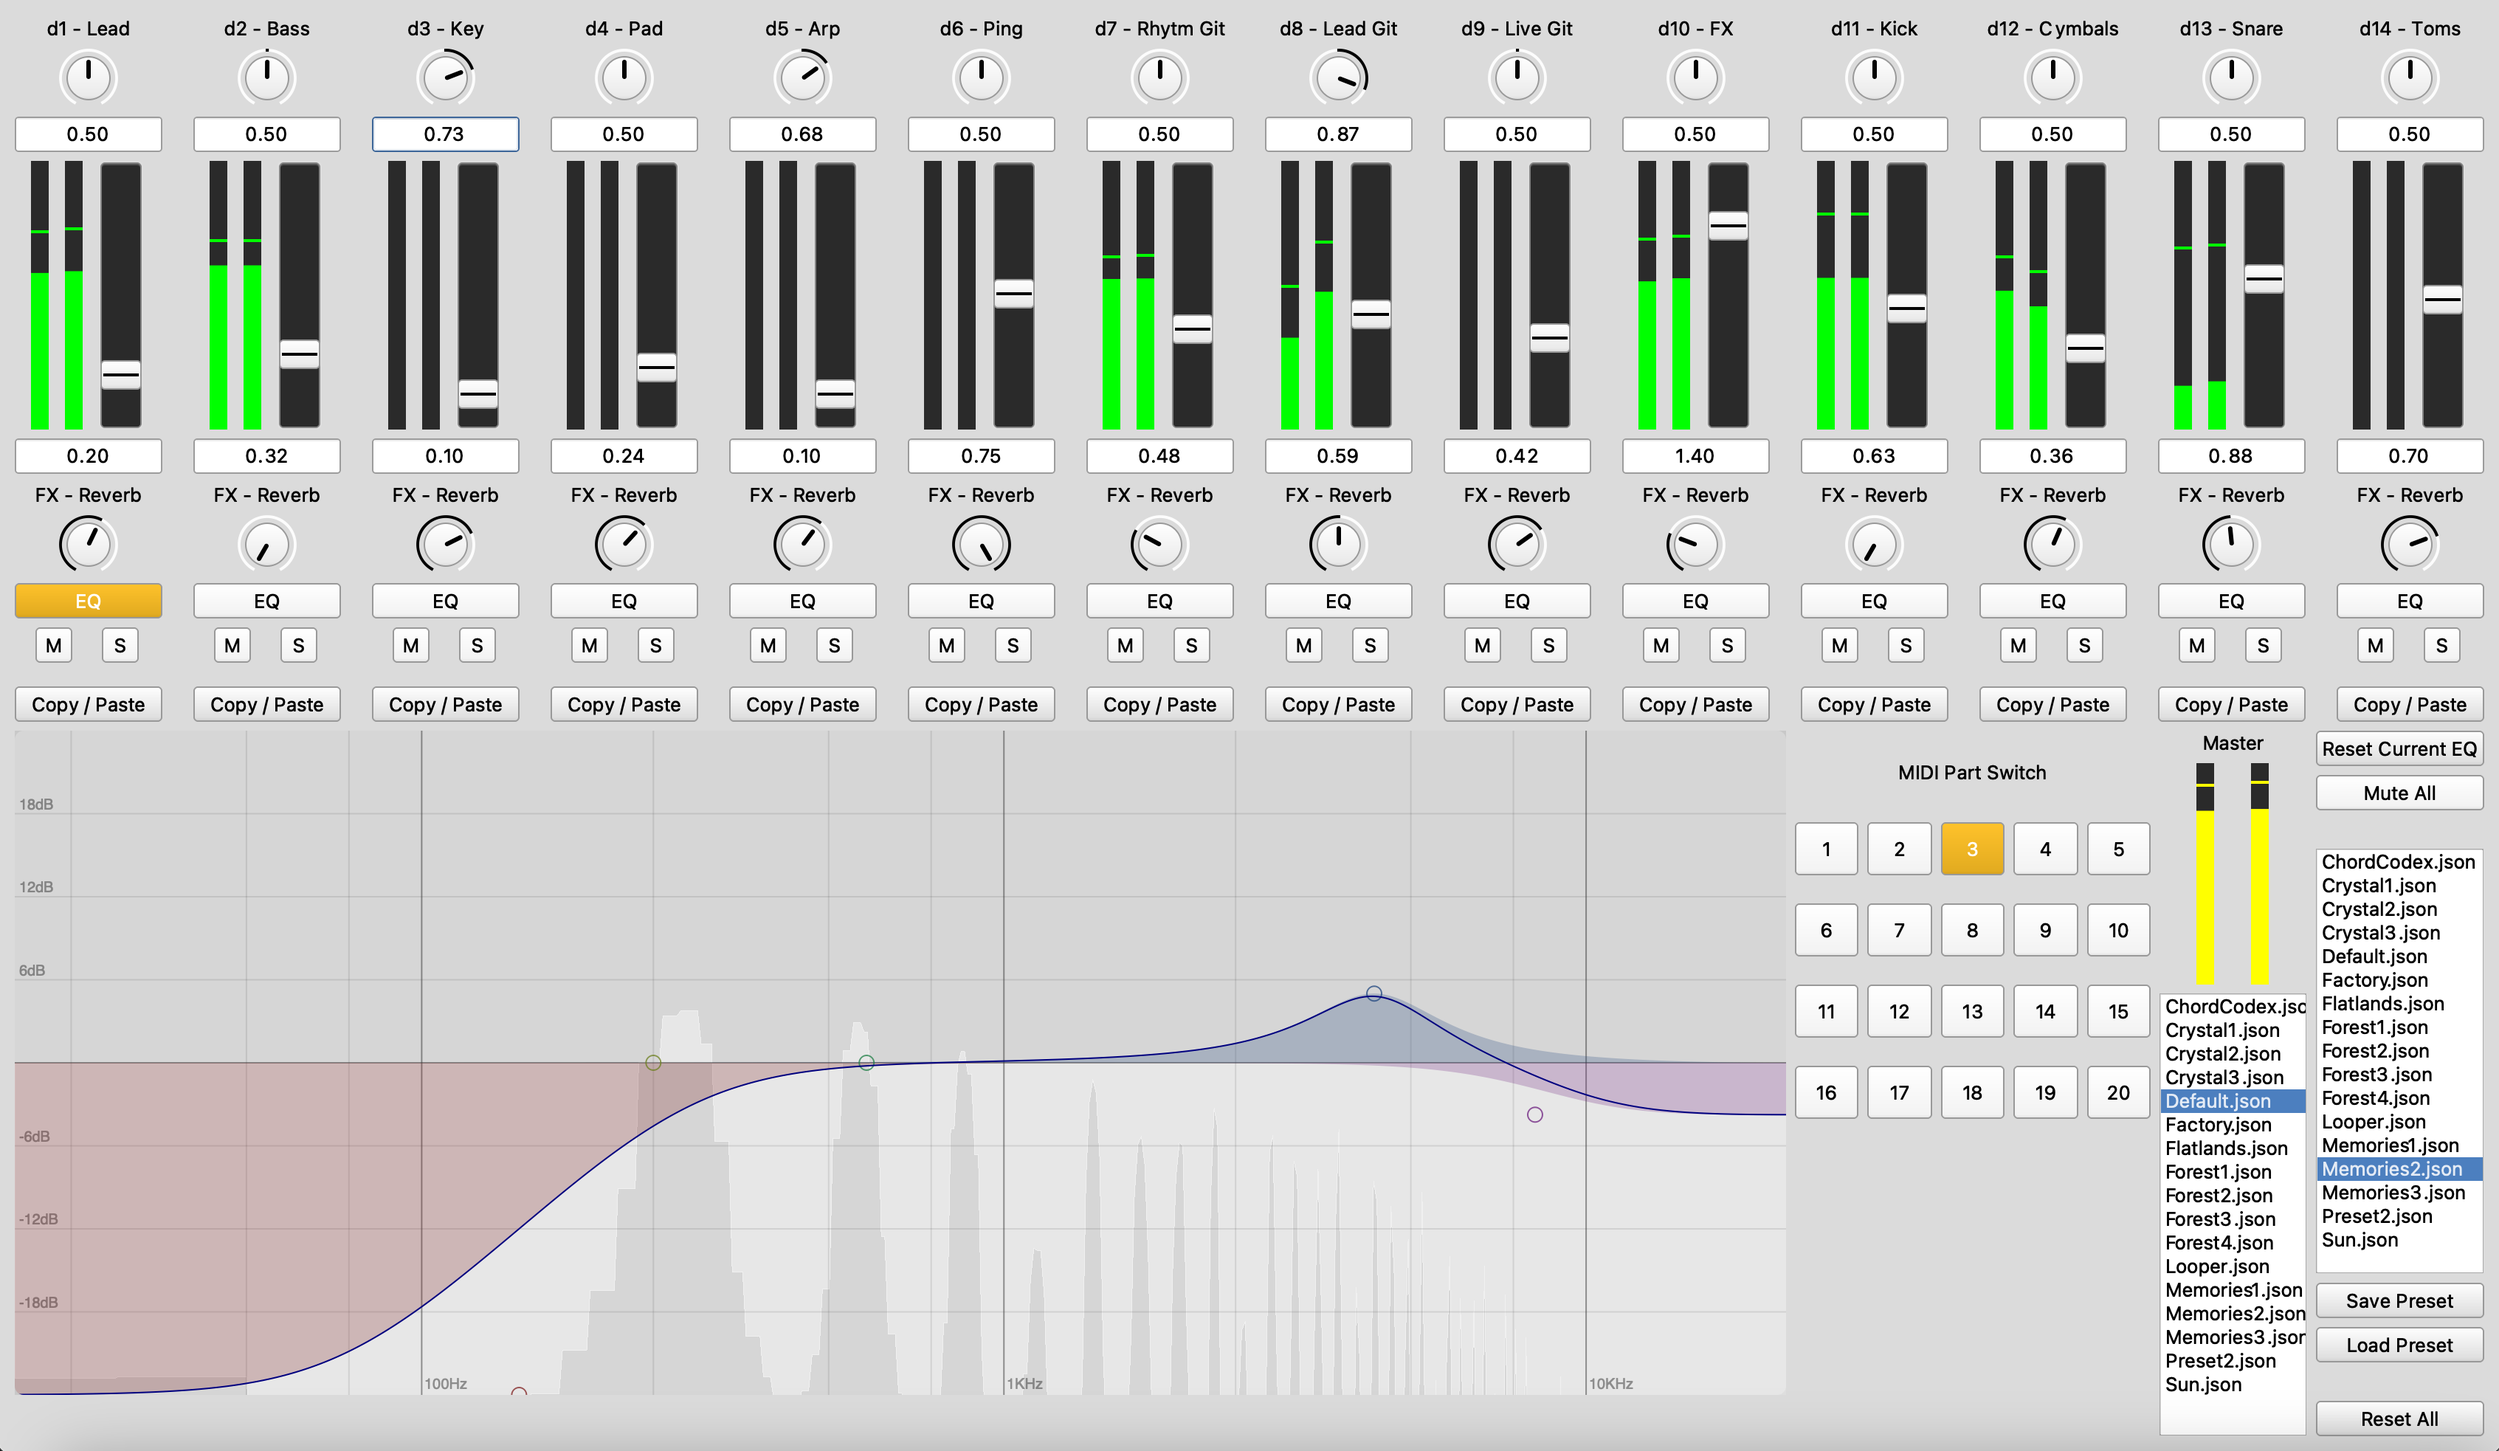
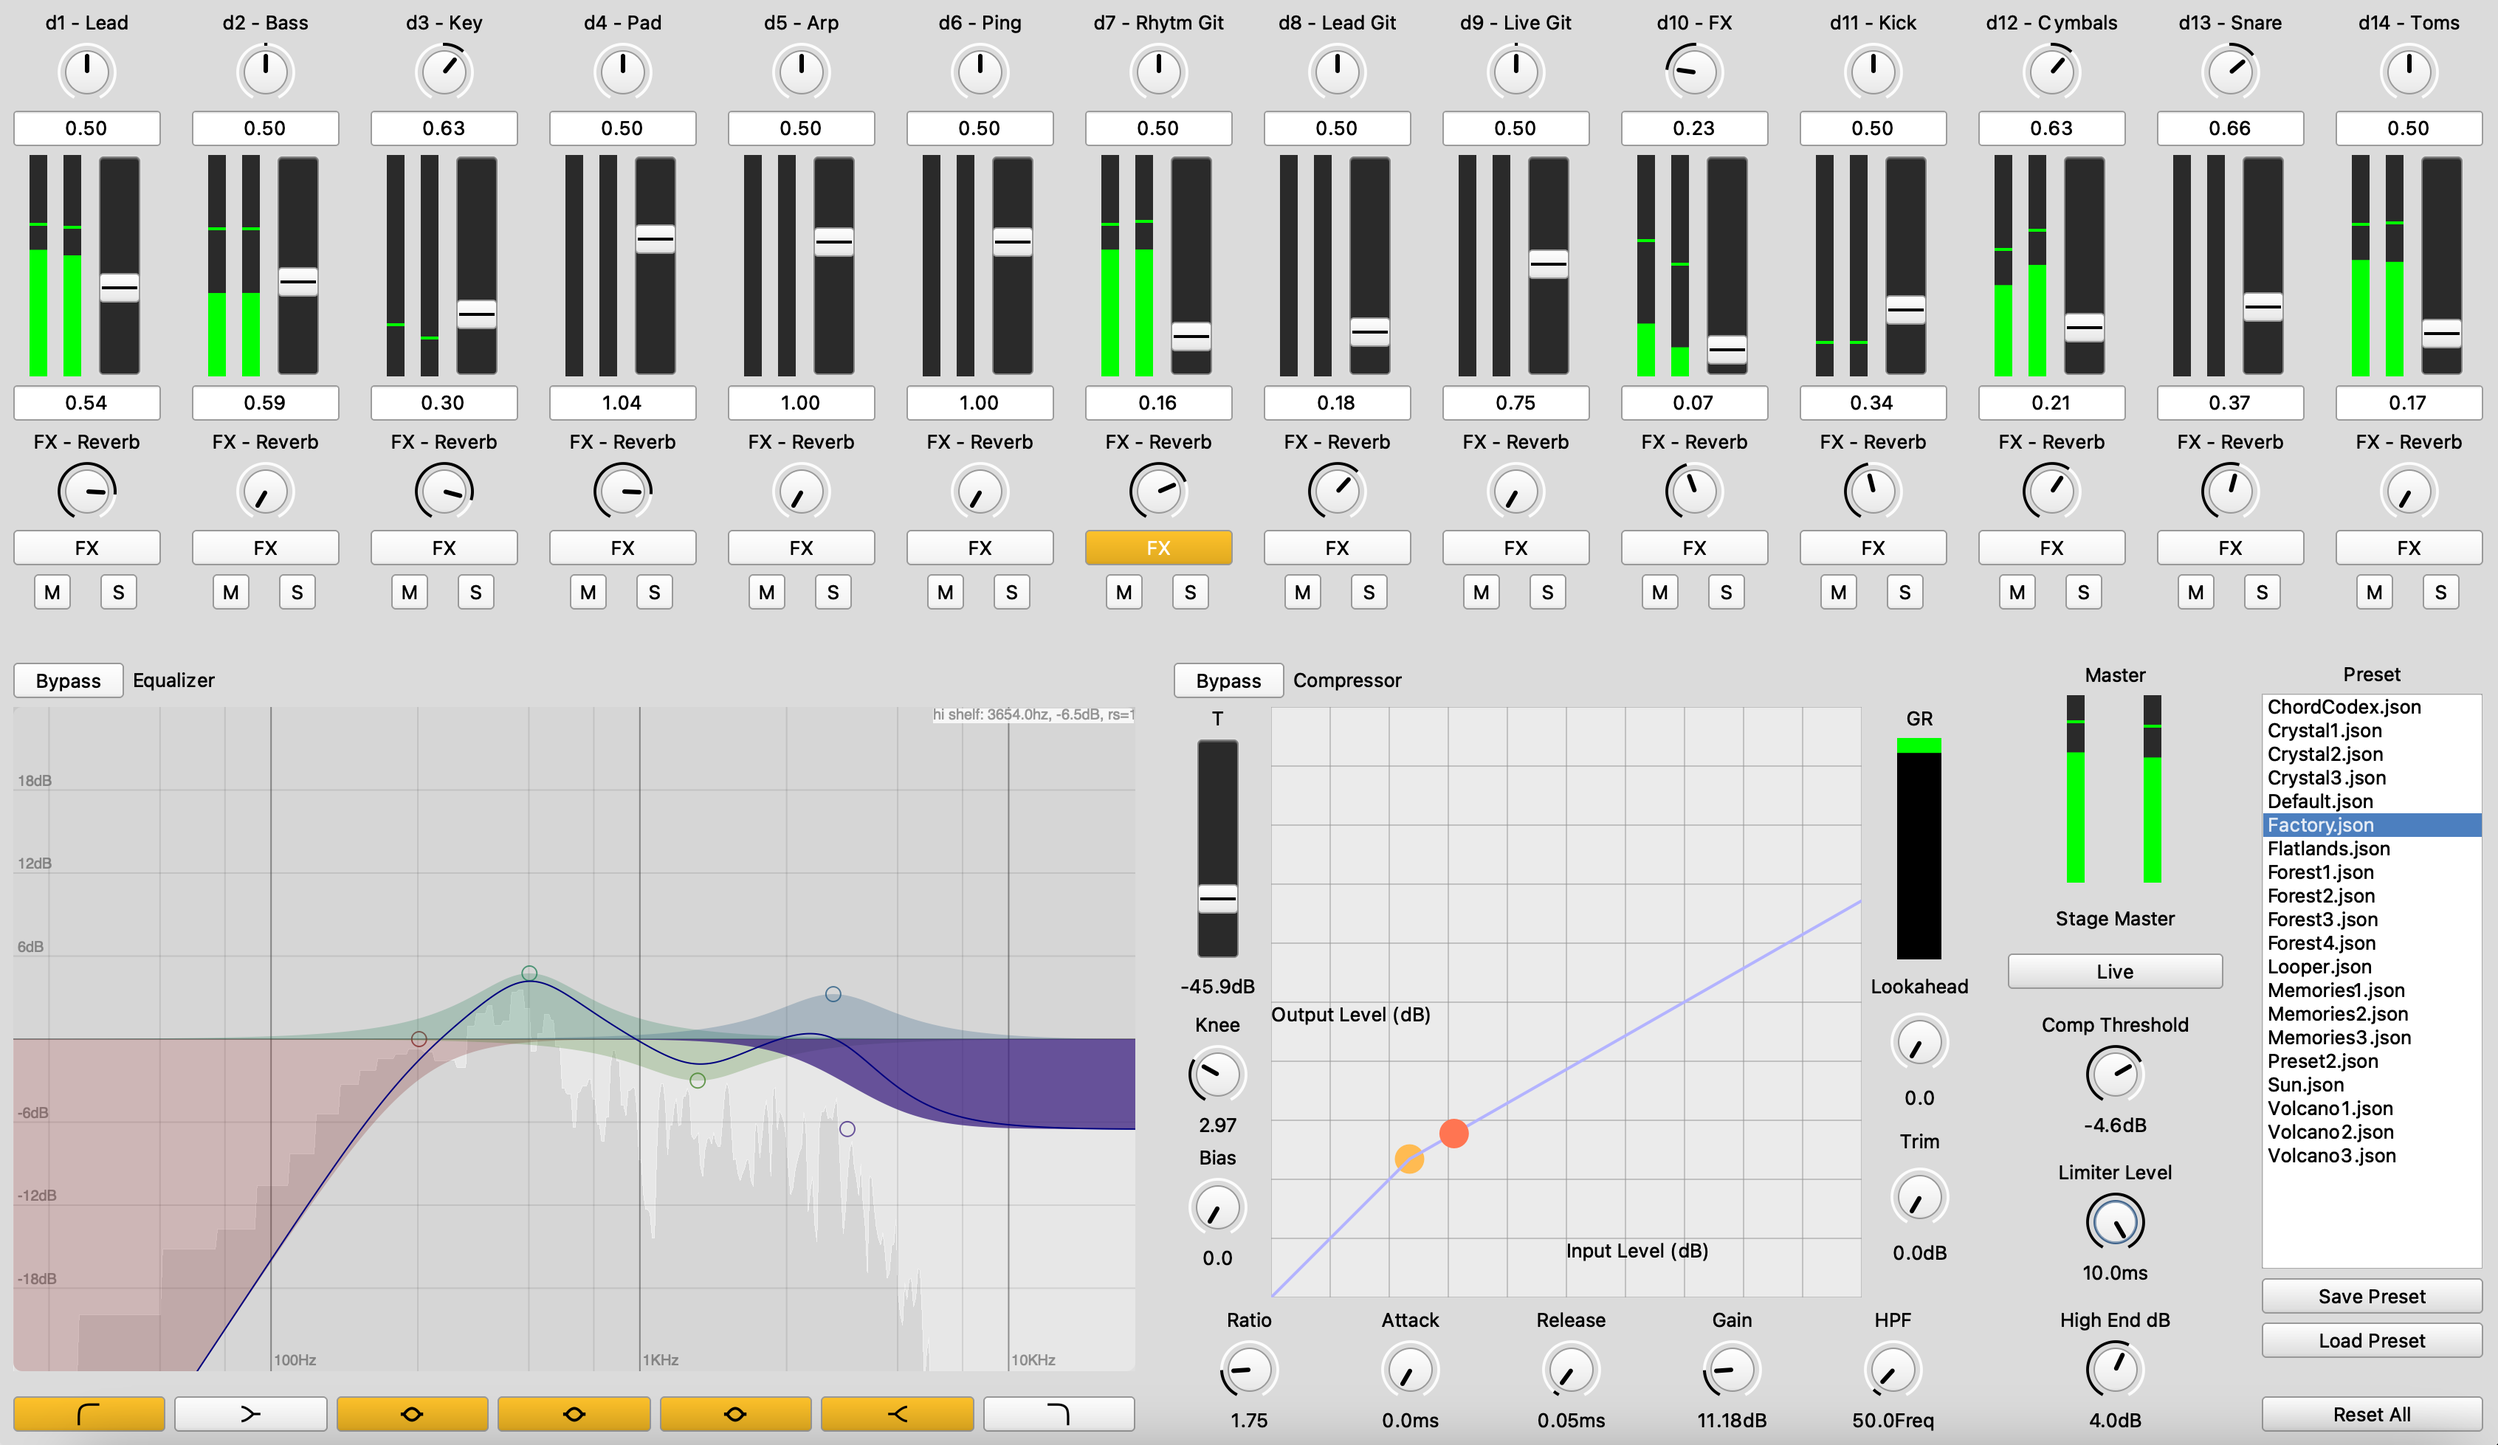
extend documentation

diff --git a/README.md b/README.md
@@ -1,15 +1,31 @@
 # SuperDirtMixer (MrReason setup version)
 
-This is a mixer ui was created for the sound engine **SuperDirt** https://github.com/musikinformatik/SuperDirt for the **TidalCycles** http://tidalcycles.org/ programming language. The main motivation of this mixer was to get rid of using a DAW like Ableton in a live coding setup, because the author just used it for mixing a live setup. This mixer helps to realize tonal depth, clean frequency separation and a stereo panorama and makes this easily accessible in SuperDirt. In general this mixer overwrites the default values of the orbits defaultParentEvents. This means i.e. that it allows to change the value for gain from 1.0 to a different value from 0 to 1.5. These defaultParentEvent values will be used until they get overwritten on the TidalCycles side.
+This is a mixer ui was created for the sound engine **SuperDirt** https://github.com/musikinformatik/SuperDirt for the **TidalCycles** http://tidalcycles.org/ programming language. The main motivation of this mixer was to get rid of using a DAW like Ableton in a live coding setup, because the author just used it for mixing a live setup. This mixer helps to realize tonal depth, clean frequency separation, signal compression and a stereo panorama and makes this easily accessible in SuperDirt. In general this mixer overwrites the default values of the orbits defaultParentEvents. This means i.e. that it allows to change the value for pan from 0.5 to a different value from 0 to 1. These defaultParentEvent values will be used until they get overwritten on the TidalCycles side.
 
-For the EQ of an orbit, this plugin is using EQui (https://github.com/muellmusik/EQui). For this it's needed to add some additional values to the defaultParentEvent to store and change the EQui parameters which will be done during the initialisation of this mixer. The eq functionality was added as a global effect to every orbit. This allows you to change the eq parameters for every orbit and still use all the other filter like hpf or lpf.
+For the EQ of an orbit, this plugin is using EQui (https://github.com/thgrund/EQui). For this it's needed to add some additional values to the defaultParentEvent to store and change the EQui parameters which will be done during the initialisation of this mixer. The eq functionality was added as a global effect to every orbit. This allows you to change the eq parameters for every orbit and still use all the other filter like hpf or lpf.
+
+![mixer](HelpSource/Classes/mixer.png)
 
 ## Requirements
 
 - [TidalCycles](https://github.com/tidalcycles/Tidal) v1.9.4+
 - [SuperDirt Quark](https://github.com/musikinformatik/SuperDirt) v1.7.3+ (latest develop branch version)
 
-![mixer](HelpSource/Classes/mixer.png)
+## Features
+
+### Mixer
+
+### Equalizer
+
+- Five different filter types (high pass, low shelf, 3x peak, high shelf and low pass filter)
+- Graphical representation of the applied filter as frequency curves
+- Toggleable filter buttons. You can enable and disable all available filter
+
+### Dynamic Range Compressor
+
+### Stage Master
+
+### Preset Management
 
 ## How to install it
 
@@ -42,3 +58,10 @@ And then you can render the gui with executing this in any SuperCollider file
 ```
 
 For more in depth configuration options you can have a look into the helpfile. This is accessable in SuperCollider when your cursor is on `SuperDirtMixer` and you press i.e. `Command + D` on MacOS. 
+
+## Shoutouts
+
+- Wouter Snoei for the MasterEQ which influenced the EQui
+- Scott Wilson for the EQui project that I extended for this project
+- Alik Rustamoff for the Dynamic Range Compression tutorial
+
